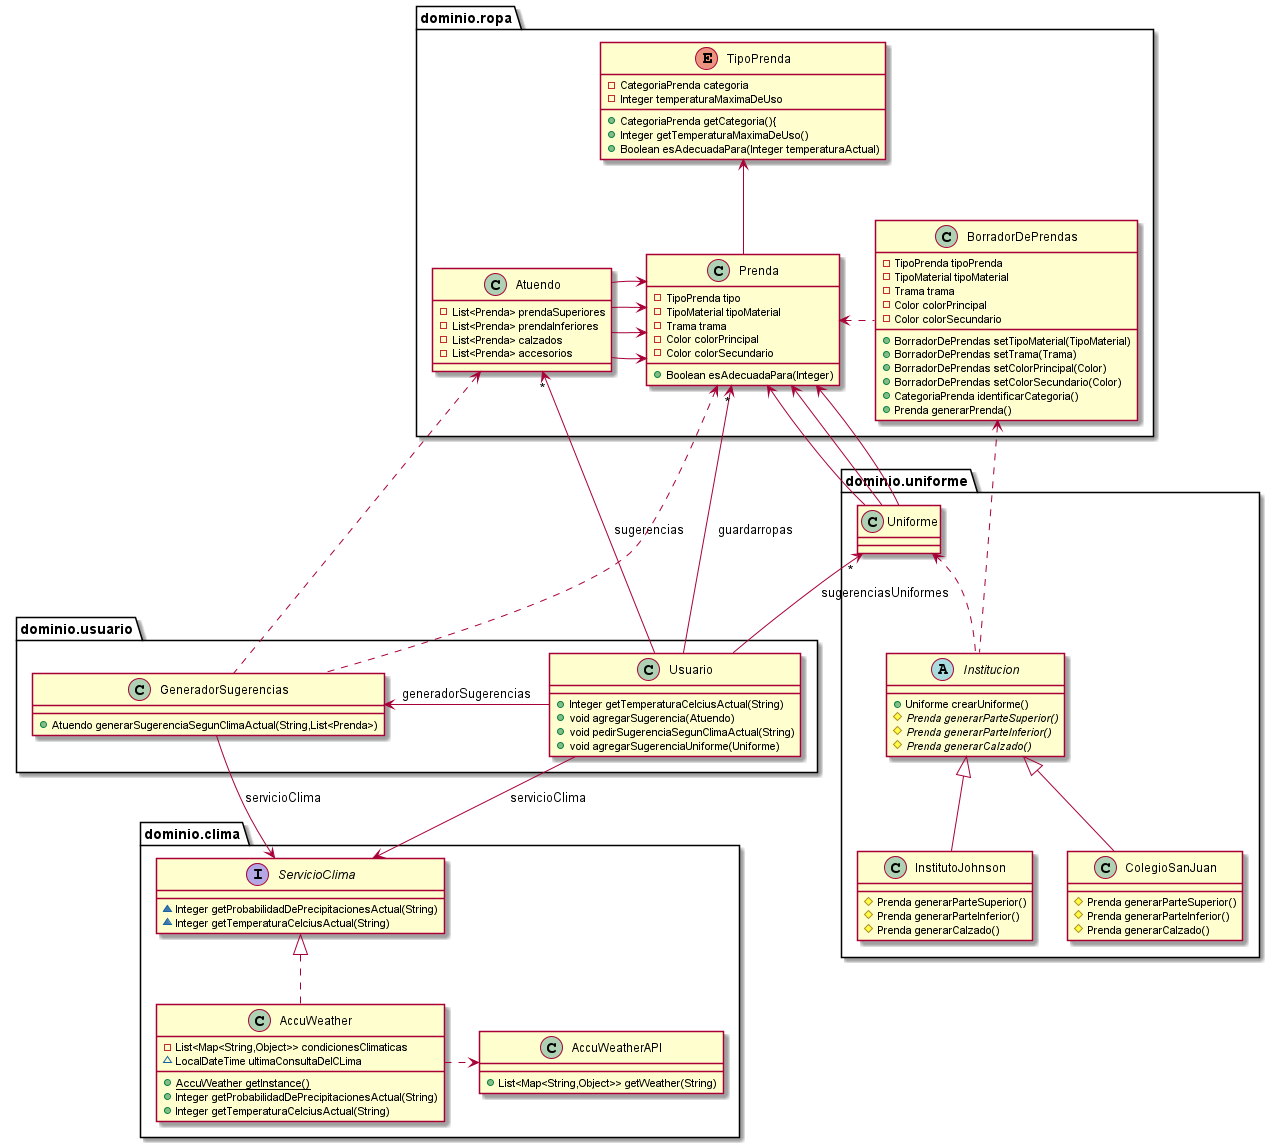
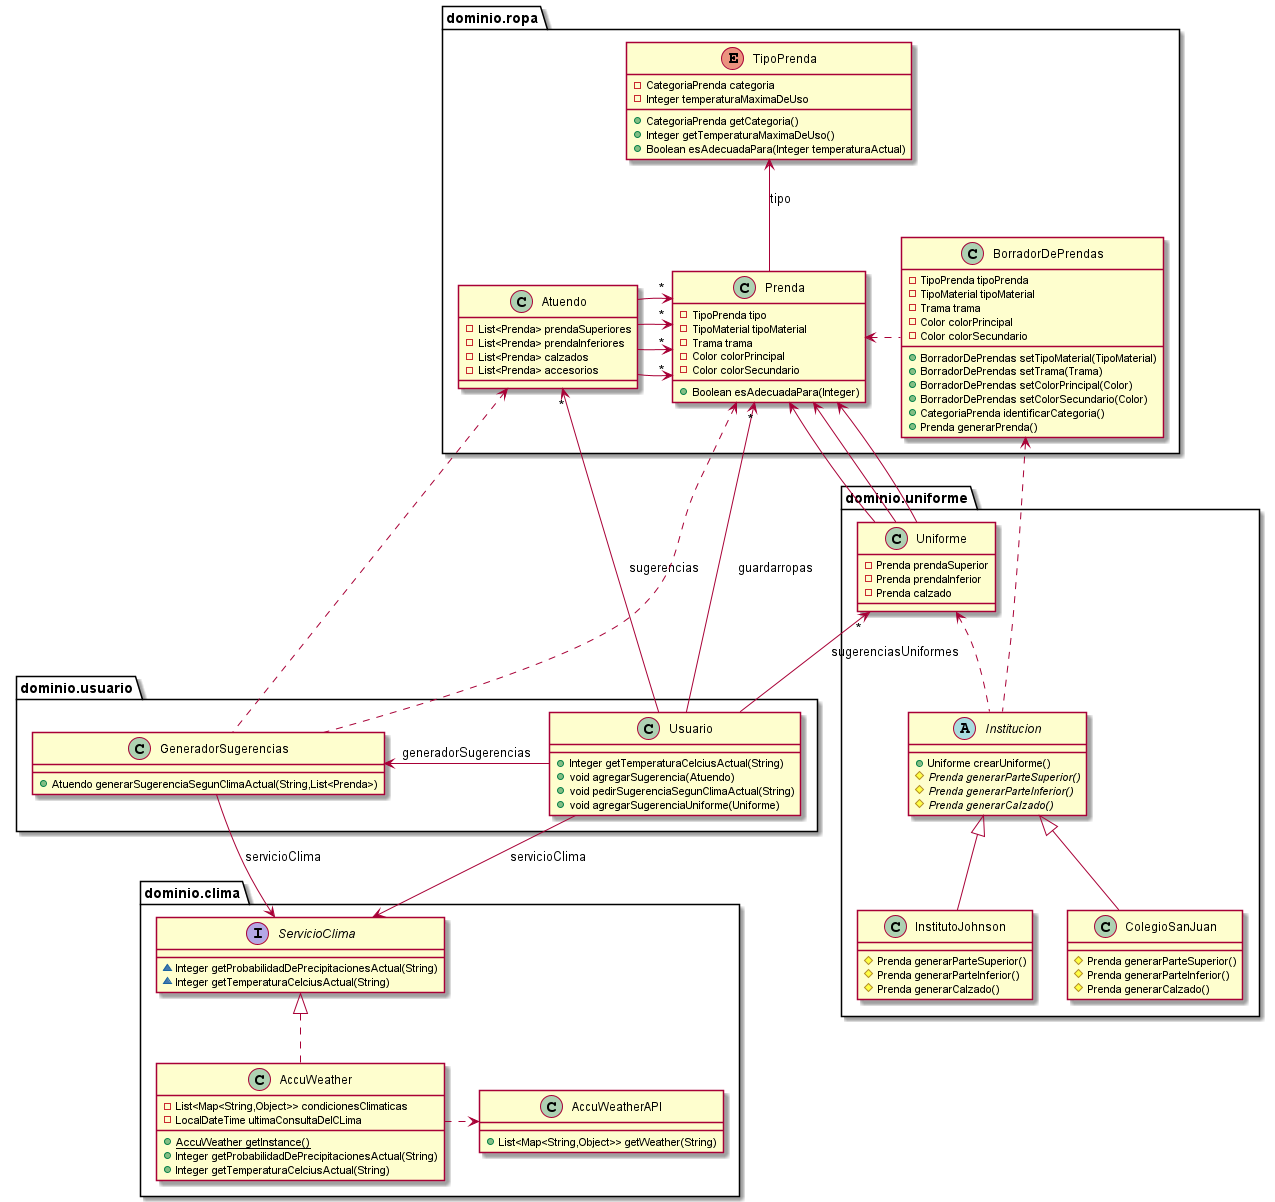
Arreglo diagramas otra vez

Changed region(s): [[0.3059, 0.0, 1.0, 0.8574], [0.0, 0.5206, 0.6424, 1.0], [0.4588, 0.4593, 0.6424, 0.4899]]

diff --git a/src/main/java/dominio/clima/AccuWeather.java b/src/main/java/dominio/clima/AccuWeather.java
@@ -11,7 +11,7 @@ import static java.time.temporal.ChronoUnit.HOURS;
 public class AccuWeather implements ServicioClima {
 
   private List<Map<String, Object>> condicionesClimaticas;
-  LocalDateTime ultimaConsultaDelCLima = LocalDateTime.now().minus(DAYS.getDuration());
+  private LocalDateTime ultimaConsultaDelCLima = LocalDateTime.now().minus(DAYS.getDuration());
 
 
   private static AccuWeather INSTANCE;
